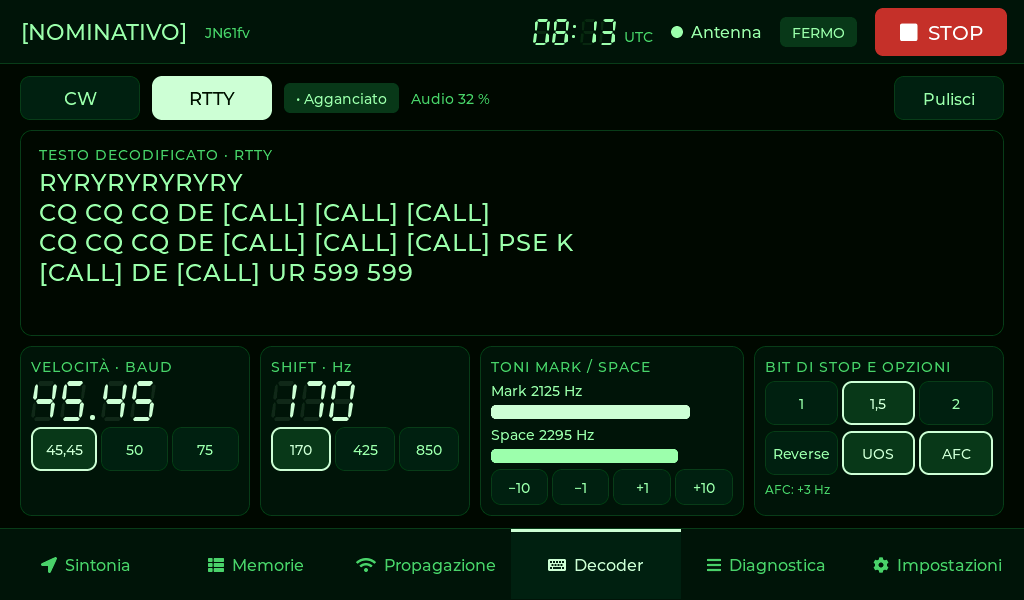
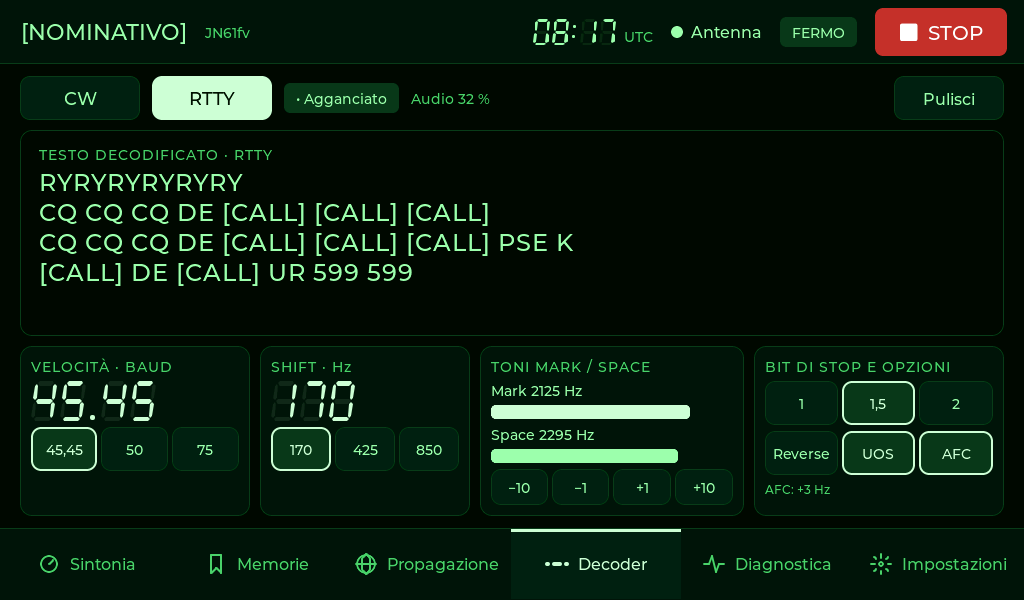
Pannello: icone del mockup nelle schede
- icone disegnate con linee e archi LVGL (manopola, segnalibro, globo,
  punto-linea, traccia, ingranaggio), con il colore del tema
- schermate aggiornate dal simulatore

Claude-Session: https://claude.ai/code/session_014uzYACKqe7rqRfxio6wmZ5

diff --git a/firmware/pannello/src/icona.cpp b/firmware/pannello/src/icona.cpp
@@ -1,0 +1,135 @@
+#include "icona.h"
+
+#include <math.h>
+#include <stdlib.h>
+
+namespace icona {
+namespace {
+
+struct Dati {
+  Tipo tipo;
+  lv_color_t colore;
+};
+
+struct Pennello {
+  lv_draw_ctx_t* ctx;
+  lv_area_t area;
+  float k;  // disegni pensati su una griglia 24 x 24
+  lv_draw_line_dsc_t linea;
+  lv_draw_arc_dsc_t arco;
+
+  lv_point_t p(float x, float y) const {
+    return {(lv_coord_t)(area.x1 + x * k + 0.5f), (lv_coord_t)(area.y1 + y * k + 0.5f)};
+  }
+  void segmento(float x1, float y1, float x2, float y2) {
+    lv_point_t a = p(x1, y1), b = p(x2, y2);
+    lv_draw_line(ctx, &linea, &a, &b);
+  }
+  void spezzata(const float* xy, int n) {
+    for (int i = 0; i + 1 < n; i++) segmento(xy[2 * i], xy[2 * i + 1], xy[2 * i + 2], xy[2 * i + 3]);
+  }
+  void cerchio(float cx, float cy, float r) {
+    lv_point_t c = p(cx, cy);
+    lv_draw_arc(ctx, &arco, &c, (uint16_t)(r * k + 0.5f), 0, 360);
+  }
+  void ellisse(float cx, float cy, float rx, float ry) {  // come spezzata di 24 lati
+    float xy[50];
+    for (int i = 0; i <= 24; i++) {
+      float a = (float)i / 24 * 6.2831853f;
+      xy[2 * i] = cx + rx * cosf(a);
+      xy[2 * i + 1] = cy + ry * sinf(a);
+    }
+    spezzata(xy, 25);
+  }
+};
+
+void disegna(lv_event_t* e) {
+  lv_obj_t* obj = lv_event_get_target(e);
+  Dati* d = (Dati*)lv_obj_get_user_data(obj);
+  if (!d) return;
+  Pennello pn;
+  pn.ctx = lv_event_get_draw_ctx(e);
+  lv_obj_get_coords(obj, &pn.area);
+  pn.k = lv_area_get_width(&pn.area) / 24.0f;
+  lv_coord_t spessore = (lv_coord_t)(2 * pn.k + 0.5f);
+  if (spessore < 2) spessore = 2;
+  lv_draw_line_dsc_init(&pn.linea);
+  pn.linea.color = d->colore;
+  pn.linea.width = spessore;
+  pn.linea.round_start = pn.linea.round_end = 1;
+  lv_draw_arc_dsc_init(&pn.arco);
+  pn.arco.color = d->colore;
+  pn.arco.width = spessore;
+
+  switch (d->tipo) {
+    case Tipo::SINTONIA:  // manopola
+      pn.cerchio(12, 12, 8);
+      pn.segmento(12, 12, 16, 8);
+      break;
+    case Tipo::MEMORIE: {  // segnalibro
+      const float xy[] = {7, 4, 17, 4, 17, 20, 12, 16, 7, 20, 7, 4};
+      pn.spezzata(xy, 6);
+      break;
+    }
+    case Tipo::PROPAGAZIONE:  // globo
+      pn.cerchio(12, 12, 9);
+      pn.segmento(3, 12, 21, 12);
+      pn.ellisse(12, 12, 4, 9);
+      break;
+    case Tipo::DECODER:  // punto, linea, punto
+      pn.linea.width = (lv_coord_t)(3.5f * pn.k + 0.5f);
+      pn.segmento(2.5f, 12, 4, 12);
+      pn.segmento(9, 12, 15, 12);
+      pn.segmento(20, 12, 21.5f, 12);
+      break;
+    case Tipo::DIAGNOSTICA: {  // traccia
+      const float xy[] = {3, 12, 7, 12, 10, 5, 14, 19, 17, 12, 21, 12};
+      pn.spezzata(xy, 6);
+      break;
+    }
+    case Tipo::IMPOSTAZIONI:  // ingranaggio
+      pn.cerchio(12, 12, 3);
+      pn.segmento(12, 3, 12, 6);
+      pn.segmento(12, 18, 12, 21);
+      pn.segmento(3, 12, 6, 12);
+      pn.segmento(18, 12, 21, 12);
+      pn.segmento(5.6f, 5.6f, 7.7f, 7.7f);
+      pn.segmento(16.3f, 16.3f, 18.4f, 18.4f);
+      pn.segmento(5.6f, 18.4f, 7.7f, 16.3f);
+      pn.segmento(16.3f, 7.7f, 18.4f, 5.6f);
+      break;
+  }
+}
+
+void elimina(lv_event_t* e) {
+  lv_obj_t* obj = lv_event_get_target(e);
+  free(lv_obj_get_user_data(obj));
+  lv_obj_set_user_data(obj, nullptr);
+}
+
+}  // namespace
+
+lv_obj_t* crea(lv_obj_t* parent, Tipo tipo, lv_coord_t lato, lv_color_t c) {
+  lv_obj_t* o = lv_obj_create(parent);
+  lv_obj_remove_style_all(o);
+  lv_obj_set_size(o, lato, lato);
+  lv_obj_clear_flag(o, LV_OBJ_FLAG_CLICKABLE);
+  lv_obj_clear_flag(o, LV_OBJ_FLAG_SCROLLABLE);
+  lv_obj_add_flag(o, LV_OBJ_FLAG_EVENT_BUBBLE);
+  Dati* d = (Dati*)malloc(sizeof(Dati));
+  d->tipo = tipo;
+  d->colore = c;
+  lv_obj_set_user_data(o, d);
+  lv_obj_add_event_cb(o, disegna, LV_EVENT_DRAW_MAIN, nullptr);
+  lv_obj_add_event_cb(o, elimina, LV_EVENT_DELETE, nullptr);
+  return o;
+}
+
+void colore(lv_obj_t* o, lv_color_t c) {
+  Dati* d = (Dati*)lv_obj_get_user_data(o);
+  if (!d || d->colore.full == c.full) return;
+  d->colore = c;
+  lv_obj_invalidate(o);
+}
+
+}  // namespace icona

diff --git a/firmware/pannello/src/ui/ui.cpp b/firmware/pannello/src/ui/ui.cpp
@@ -5,6 +5,7 @@
 
 #include "../config.h"
 #include "../display7.h"
+#include "../icona.h"
 #include "../impostazioni.h"
 #include "../ora.h"
 #include "../tema.h"
@@ -28,6 +29,7 @@ const Pagina PAGINE[NUM_PAGINE] = {
 
 lv_obj_t* pagine[NUM_PAGINE];
 lv_obj_t* schede[NUM_SCHEDE];
+lv_obj_t* icone[NUM_SCHEDE];
 uint8_t attiva = 0;
 
 lv_obj_t* orologio;
@@ -164,6 +166,7 @@ void mostra(uint8_t indice) {
     lv_obj_set_style_bg_color(schede[i], sel ? t.surface2 : t.surface, 0);
     lv_obj_set_style_text_color(schede[i], sel ? t.accent : t.text2, 0);
     lv_obj_set_style_border_color(schede[i], sel ? t.accent : t.surface, 0);
+    icona::colore(icone[i], sel ? t.accent : t.text2);
   }
   if (PAGINE[indice].mostrata) PAGINE[indice].mostrata();
 }
@@ -190,10 +193,15 @@ void creaSchede(lv_obj_t* scr) {
     lv_obj_set_style_border_side(b, LV_BORDER_SIDE_TOP, 0);
     lv_obj_set_style_border_width(b, 3, 0);
     lv_obj_set_style_bg_color(b, t.surface2, LV_STATE_PRESSED);
-    lv_obj_t* l = lv_label_create(b);
-    lv_label_set_text_fmt(l, "%s  %s", PAGINE[i].simbolo, PAGINE[i].nome);
+    lv_obj_t* riga = contenitore(b, LV_FLEX_FLOW_ROW, 8);
+    lv_obj_set_flex_align(riga, LV_FLEX_ALIGN_START, LV_FLEX_ALIGN_CENTER, LV_FLEX_ALIGN_CENTER);
+    lv_obj_add_flag(riga, LV_OBJ_FLAG_EVENT_BUBBLE);
+    lv_obj_clear_flag(riga, LV_OBJ_FLAG_CLICKABLE);
+    lv_obj_center(riga);
+    icone[i] = icona::crea(riga, (icona::Tipo)i, 26, t.text2);
+    lv_obj_t* l = lv_label_create(riga);
+    lv_label_set_text(l, PAGINE[i].nome);
     lv_obj_set_style_text_font(l, &font_16, 0);
-    lv_obj_center(l);
     lv_obj_add_event_cb(b, premiScheda, LV_EVENT_CLICKED, (void*)(uintptr_t)i);
     schede[i] = b;
   }

diff --git a/firmware/pannello/src/icona.h b/firmware/pannello/src/icona.h
@@ -1,0 +1,12 @@
+// Icone delle schede, disegnate con linee e archi LVGL (come nel mockup approvato).
+#pragma once
+#include <lvgl.h>
+
+namespace icona {
+
+enum class Tipo : uint8_t { SINTONIA, MEMORIE, PROPAGAZIONE, DECODER, DIAGNOSTICA, IMPOSTAZIONI };
+
+lv_obj_t* crea(lv_obj_t* parent, Tipo tipo, lv_coord_t lato, lv_color_t colore);
+void colore(lv_obj_t* icona, lv_color_t colore);
+
+}  // namespace icona

diff --git a/docs/memoria/punti-aperti.md b/docs/memoria/punti-aperti.md
@@ -26,10 +26,10 @@ Da chiudere. Quando uno è risolto, spostare il risultato nel file di memoria gi
 - [x] Pannello: Memorie, Propagazione, Decoder CW/RTTY, screensaver, Impostazioni complete, WiFi/NTP/indici (compilano; algoritmi provati sul PC).
 - [ ] Decoder: prova con segnali veri dalla radio.
 - [x] Pannello: font con lettere accentate, "·" e "—" (Montserrat Latin-1 con lv_font_conv).
-- [ ] Pannello: icone del mockup al posto dei simboli LVGL.
+- [x] Pannello: icone del mockup, disegnate con linee e archi LVGL.
 - [ ] Pannello: verso del PWM della retroilluminazione (IO expander): il firmware scrive 100 − luminosità, da verificare.
 - [ ] Ingresso audio del decoder: GPIO6 da verificare sullo schema; circuito d'ingresso da provare.
-- [ ] Font per LVGL: monospazio per i temi a fosfori, con lv_font_conv (le cifre a 7 segmenti sono già un widget).
+- [ ] Font monospazio per i temi a fosfori: servono circa 1,4 MB di flash (partizione app più grande) e un font per tema in tutta l'interfaccia.
 - [ ] Mappa per la grey line in flash (Natural Earth), una per tema.
 - [ ] Indici solari: verificare formato e condizioni d'uso del feed hamqsl.com; con il WiFi l'antenna va sul canale del router.
 - [x] Ora esatta sul pannello: NTP via WiFi oppure impostazione dalla console.

diff --git a/firmware/pannello/README.md b/firmware/pannello/README.md
@@ -30,6 +30,7 @@ src/config.h            canale, tempi del collegamento, frequenze proposte
 src/impostazioni.*      impostazioni in NVS (nominativo, tema, MAC antenna, ultime frequenze...)
 src/tema.*              i quattro temi del mockup
 src/display7.*          widget display a 7 segmenti (poligoni LVGL, nessun font esterno)
+src/icona.*             icone delle schede disegnate con linee e archi (come nel mockup)
 src/link_antenna.*      ESP-NOW verso l'antenna (usa ../lib/Comune)
 src/console.*           comandi da seriale
 src/eventi.*            registro eventi e contatori (Diagnostica)
@@ -118,7 +119,6 @@ wifi <ssid> <password>       WiFi di casa (facoltativo)
 Sull'antenna va impostato il MAC del pannello (stampato all'avvio e mostrato in Impostazioni).
 
 ## Limiti noti di questa versione
-- Icone delle schede: per ora i simboli integrati in LVGL; quelle del mockup vanno convertite in immagini.
 - Temi a fosfori: niente bagliore e righe di scansione (costosi in LVGL), niente font monospazio.
 - Luminosità: si scrive 100 − luminosità nel PWM dell'IO expander (dedotto dagli esempi): verso da verificare.
 - Mappa: continenti molto semplificati, da sostituire con dati Natural Earth.
